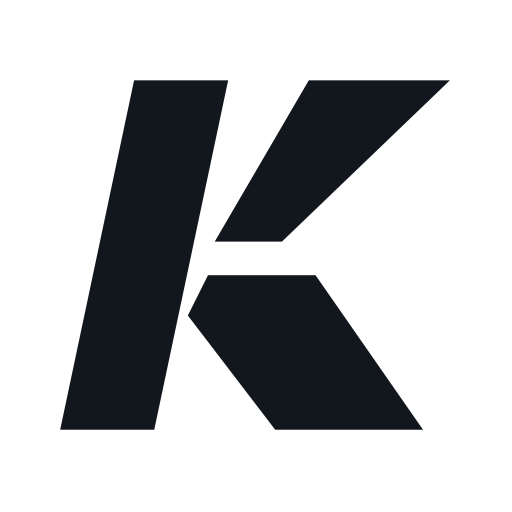
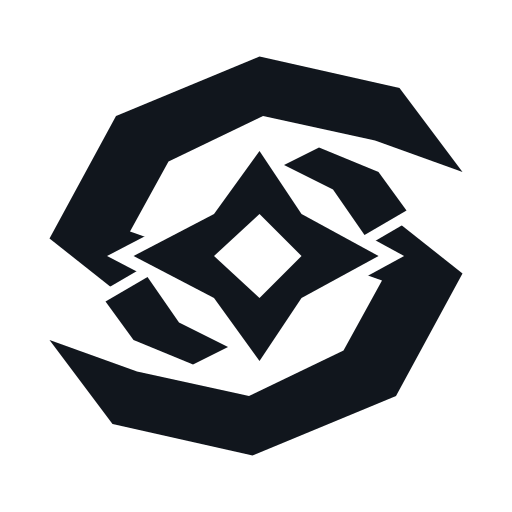
Localize cover edition labels and introduce Refracted Orbit brand emblem

Changed region(s): [[0.0938, 0.0938, 0.9062, 0.9062], [0.25, 0.1562, 0.4062, 0.2188]]

diff --git a/src/lib/product-copy.ts b/src/lib/product-copy.ts
@@ -12,6 +12,7 @@ export const coverEditions = [
 
 const en = {
   categories: { glass: "Glass mousepads", keycaps: "Keycaps", metal: "Metal customs" },
+  editionNames: ["Starplayer.", "Void FM.", "The Chemist.", "Golden Hour.", "Redline.", "Afterburn.", "Night Signal."],
   collections: [
     { name: "Core glass", caption: "THE ESSENTIALS", description: "A quiet surface. A clear point of view. Our essential glass mousepad direction, designed around the way you play." },
     { name: "Artist editions", caption: "A CANVAS FOR COLLABORATION", description: "A space for future artist and IP collaborations. This original studio study explores what could come next; collaborations are still to be announced." },
@@ -58,7 +59,7 @@ const en = {
     },
   },
   details: {
-    tabs: { specs: "Specs", story: "Story", faq: "FAQ" }, category: "Category", collection: "Collection", dimensions: "Design dimensions", thickness: "Thickness", surface: "Surface & base", status: "Status", tbc: "To be confirmed", future: "Future plan",
+    tabs: { specs: "Specs", story: "Story", faq: "FAQ" }, category: "Category", collection: "Collection", edition: "Edition", dimensions: "Design dimensions", thickness: "Thickness", surface: "Surface & base", status: "Status", tbc: "To be confirmed", future: "Future plan",
     direction: "Direction", preview: "Preview", geometric: "Geometric keycap form study", materialsFinish: "Materials & finish", compatibility: "Compatibility", palette: "Palette study", colors: "Crimson / Violet / Charcoal", materialsProcess: "Materials & process", profileKit: "Profile & kit",
     notes: "KAGURA / Product notes", close: "Close", closeLabel: "Close product details", designDimensions: "490 × 420 mm design", designConcept: "Design concept", specsTbc: "Specifications to be confirmed", conceptDeveloping: "Concept / In development", layoutTbc: "Layout and profile to be confirmed", information: "information",
     metalLead: "An early look at what comes next.", lead: "The details are in development.", specNote: "Final specifications, pricing, and release timing will be shared as development progresses.", signoff: "KAGURA / Objects for your everyday.",
@@ -87,6 +88,7 @@ const en = {
 
 const zh: typeof en = {
   categories: { glass: "玻璃鼠标垫", keycaps: "键帽", metal: "金属客制化" },
+  editionNames: ["明星玩家", "虚空电台", "化学家", "鎏金时刻", "红线", "余焰", "夜间信号"],
   collections: [
     { name: "Core 基础系列", caption: "回归纯粹", description: "让桌面安静下来，让注意力回到游戏。Core 从简洁的形态出发，探索玻璃鼠标垫最纯粹的样子。" },
     { name: "Artist 画师系列", caption: "为创作留一块空间", description: "为未来的画师与 IP 合作预留的系列。眼前这幅原创抽象作品，是我们对色彩与构图的一次尝试；具体合作尚未公布。" },
@@ -95,9 +97,9 @@ const zh: typeof en = {
   experience: {
     explore: "探索", allCollections: "全部系列", glassCollections: "玻璃鼠标垫系列", coverSeries: "01 / 封面系列", futureObjects: "01 / 未来企划",
     viewer: "玻璃鼠标垫三维桌面。点击旁边的鼠标垫，或使用键盘左右方向键切换系列。", conceptVisualization: "概念效果图",
-    keyTitle: "Starplayer / 键帽", keyKicker: "键帽系列", metalKicker: "探索金属的另一种表达", keyConcept: "键帽概念", futureCollection: "未来企划", developing: "开发中",
+    keyTitle: "明星玩家 / 键帽", keyKicker: "键帽系列", metalKicker: "探索金属的另一种表达", keyConcept: "键帽概念", futureCollection: "未来企划", developing: "开发中",
     format: "设计尺寸", series: "系列", palette: "概念配色", colors: "绯红 / 紫罗兰", coverNumber: "封面 / 01", formStudy: "造型研究 — 001",
-    keyDescription: "以蕾娜为主角，让红与紫的专辑封面画面铺展在每颗键帽之间。与 Starplayer 玻璃垫呼应的键帽设计概念。",
+    keyDescription: "以蕾娜为主角，让红与紫的专辑封面画面铺展在每颗键帽之间。与「明星玩家」玻璃垫呼应的键帽设计概念。",
     metalDescription: "从雕塑感的形态与细节出发，探索未来的定制金属物件。首个系列仍在构思中。",
     chooseArt: "选择封面作品", more: "了解详情", release: "订阅发售动态", artistNote: "原创概念预览。画师合作信息将另行公布。", conceptNote: "设计概念预览，最终产品信息待公布。",
     viewingAngle: "查看角度", deskView: "桌面视角", topView: "俯视角度", designStudy: "KAGURA / 设计研究", previous: "上一个玻璃垫系列", next: "下一个玻璃垫系列", of: "/",
@@ -122,7 +124,7 @@ const zh: typeof en = {
       caption: "Covers / 封面视觉研究", question: "Cover 系列每一款有什么区别？", answer: "每款以一幅独立作品为核心，灵感来自音乐与专辑视觉。目前展示的是概念设计，尚未公布任何官方联名。",
     },
     keycaps: {
-      title: "键帽", index: "02 / 键帽", tagline: "蕾娜、红色光线，以及另一种唱片封面。", asideTitle: "让每一次触碰，都有自己的表达。", description: "将角色画面重新编排在独立键帽上，与 Starplayer 玻璃垫形成视觉呼应。",
+      title: "键帽", index: "02 / 键帽", tagline: "蕾娜、红色光线，以及另一种唱片封面。", asideTitle: "让每一次触碰，都有自己的表达。", description: "将角色画面重新编排在独立键帽上，与「明星玩家」玻璃垫形成视觉呼应。",
       storyTitle: "一幅画面，延伸到每一颗键。", story: "Cover 系列将唱片封面的氛围带到键盘上。蕾娜画面贯穿独立键帽的顶面，搭配炭黑色功能键。这是独立角色二创概念，不代表官方联名。材质、印刷工艺、键帽高度与适配范围尚待确认。",
       caption: "键帽 / 图案印刷概念", question: "这套键帽适配哪些键盘？", answer: "适配配列、键帽高度与套装内容尚未公布。当前图片用于展示设计方向，并非最终套装。",
     },
@@ -133,7 +135,7 @@ const zh: typeof en = {
     },
   },
   details: {
-    tabs: { specs: "规格", story: "设计理念", faq: "常见问题" }, category: "品类", collection: "系列", dimensions: "设计尺寸", thickness: "厚度", surface: "表面与底部结构", status: "进度", tbc: "待确认", future: "未来企划",
+    tabs: { specs: "规格", story: "设计理念", faq: "常见问题" }, category: "品类", collection: "系列", edition: "款式", dimensions: "设计尺寸", thickness: "厚度", surface: "表面与底部结构", status: "进度", tbc: "待确认", future: "未来企划",
     direction: "产品方向", preview: "预览内容", geometric: "几何键帽造型研究", materialsFinish: "材质与表面处理", compatibility: "适配范围", palette: "概念配色", colors: "绯红 / 紫罗兰 / 炭黑", materialsProcess: "材质与工艺", profileKit: "键帽高度与套装",
     notes: "KAGURA / 产品手记", close: "关闭", closeLabel: "关闭产品详情", designDimensions: "设计尺寸 490 × 420 mm", designConcept: "设计概念", specsTbc: "最终规格待确认", conceptDeveloping: "概念设计 / 开发中", layoutTbc: "配列与键帽高度待确认", information: "详情",
     metalLead: "提前看看，我们正在构思什么。", lead: "产品细节，正在逐步打磨。", specNote: "最终规格、价格与发售时间，将随开发进度陆续公布。", signoff: "KAGURA / 为日常，添一点自己的表达。",
@@ -145,10 +147,10 @@ const zh: typeof en = {
     { caption: "蕾娜 / 角色二创概念 001", alt: "紫色光线中的蕾娜角色二创，背景为鲜红色专辑封面构图" },
     { caption: "恶灵 / 角色二创概念 002", alt: "以冷蓝色科幻专辑封面构图呈现的恶灵角色二创" },
     { caption: "侵蚀 / 电影感二创概念 003", alt: "工业仓库中的侵蚀，周围有橄榄绿色桶与暖色电影感逆光" },
-    { caption: "希尔 / 角色二创概念 004", alt: "Golden Hour：以希尔为灵感的铜橙、金色与海军蓝专辑封面概念" },
-    { caption: "红狼 / 角色二创概念 005", alt: "Redline：以红狼为灵感的红色专辑封面概念" },
-    { caption: "威龙 / 角色二创概念 006", alt: "Afterburn：以威龙为灵感的电影感专辑封面概念" },
-    { caption: "麦晓雯（骇爪）/ 角色二创概念 007", alt: "Night Signal：以麦晓雯（骇爪）为灵感的夜色专辑封面概念" },
+    { caption: "希尔 / 角色二创概念 004", alt: "鎏金时刻：以希尔为灵感的铜橙、金色与海军蓝专辑封面概念" },
+    { caption: "红狼 / 角色二创概念 005", alt: "红线：以红狼为灵感的红色专辑封面概念" },
+    { caption: "威龙 / 角色二创概念 006", alt: "余焰：以威龙为灵感的电影感专辑封面概念" },
+    { caption: "麦晓雯（骇爪）/ 角色二创概念 007", alt: "夜间信号：以麦晓雯（骇爪）为灵感的夜色专辑封面概念" },
   ],
   sound: {
     unavailable: "音乐尚未接入，查看说明", startingLabel: "音乐正在加载，点击关闭", onLabel: "音乐已开启，点击关闭", offLabel: "音乐已关闭，点击开启", on: "音乐 开", off: "音乐 关", settings: "音量与曲目信息", heading: "给桌面一点声音", close: "关闭音乐设置", trackPending: "属于这个系列的背景音乐", volume: "音量", percent: "%", error: "暂时无法播放，请重试。", retry: "重新播放", starting: "正在加载音乐…", playing: "音乐播放中，关闭面板后也会继续播放。", stopped: "音乐已关闭，想听的时候再打开。", noSource: "背景音乐正在挑选中，当前尚未接入音源。",
@@ -162,6 +164,7 @@ const zh: typeof en = {
 
 const ja: typeof en = {
   categories: { glass: "ガラスマウスパッド", keycaps: "キーキャップ", metal: "メタルカスタム" },
+  editionNames: ["スタープレイヤー", "虚空ラジオ", "ケミスト", "ゴールデンアワー", "レッドライン", "残り火", "夜のシグナル"],
   collections: [
     { name: "Core シリーズ", caption: "シンプルを、突き詰める", description: "デスクには余白を、プレイには集中を。Core は、ガラスマウスパッドのシンプルなかたちを探るシリーズです。" },
     { name: "Artist シリーズ", caption: "表現が広がる、一枚のキャンバス", description: "これからのアーティストや IP とのコラボレーションに向けたシリーズ。現在のビジュアルは、色と構図の可能性を探るオリジナルのコンセプトです。具体的なコラボレーションは未発表です。" },
@@ -170,9 +173,9 @@ const ja: typeof en = {
   experience: {
     explore: "コレクションを見る：", allCollections: "すべてのコレクション", glassCollections: "ガラスマウスパッドのシリーズ", coverSeries: "01 / COVER シリーズ", futureObjects: "01 / これからのプロダクト",
     viewer: "ガラスマウスパッドの 3D プレビュー。隣のパッドをクリックするか、左右の矢印キーでシリーズを切り替えられます。", conceptVisualization: "のコンセプトビジュアル",
-    keyTitle: "Starplayer / キーキャップ", keyKicker: "キーキャップコレクション", metalKicker: "金属で探る、新しい表現", keyConcept: "キーキャップのコンセプト", futureCollection: "今後の企画", developing: "開発中",
+    keyTitle: "スタープレイヤー / キーキャップ", keyKicker: "キーキャップコレクション", metalKicker: "金属で探る、新しい表現", keyConcept: "キーキャップのコンセプト", futureCollection: "今後の企画", developing: "開発中",
     format: "デザイン寸法", series: "シリーズ", palette: "カラースタディ", colors: "クリムゾン / バイオレット", coverNumber: "Cover / 01", formStudy: "フォルムスタディ — 001",
-    keyDescription: "レイナを、レコードジャケットのように。赤と紫のアートワークが、一つひとつのキーに広がります。Starplayer のガラスエディションと響き合うキーキャップのコンセプトです。",
+    keyDescription: "レイナを、レコードジャケットのように。赤と紫のアートワークが、一つひとつのキーに広がります。「スタープレイヤー」のガラスエディションと響き合うキーキャップのコンセプトです。",
     metalDescription: "彫刻のようなかたちと、細部の仕上げから考えるメタルプロダクト。最初のコレクションは、まだ構想の段階です。",
     chooseArt: "カバーアートを選ぶ", more: "詳しく見る", release: "発売情報を受け取る", artistNote: "オリジナルのコンセプトです。アーティストとのコラボレーションは今後発表予定。", conceptNote: "デザインのプレビューです。製品の最終仕様は後日お知らせします。",
     viewingAngle: "表示アングル", deskView: "デスクビュー", topView: "真上から見る", designStudy: "KAGURA / デザインスタディ", previous: "前のガラスシリーズへ", next: "次のガラスシリーズへ", of: "/",
@@ -197,7 +200,7 @@ const ja: typeof en = {
       caption: "Covers / アートワークスタディ", question: "Cover の各エディションは何が違いますか？", answer: "それぞれ一つのアートワークを軸に、異なる個性を持たせています。音楽やアルバムのビジュアルから着想を得たコンセプトで、公式コラボレーションの発表ではありません。",
     },
     keycaps: {
-      title: "キーキャップ", index: "02 / キーキャップ", tagline: "レイナと赤い光。もう一つのレコードジャケット。", asideTitle: "指先から、自分らしく。", description: "キャラクターのアートワークを、キーの一つひとつに再構成。Starplayer のガラスエディションとつながるビジュアルです。",
+      title: "キーキャップ", index: "02 / キーキャップ", tagline: "レイナと赤い光。もう一つのレコードジャケット。", asideTitle: "指先から、自分らしく。", description: "キャラクターのアートワークを、キーの一つひとつに再構成。「スタープレイヤー」のガラスエディションとつながるビジュアルです。",
       storyTitle: "一枚のアートを、すべてのキーへ。", story: "Cover シリーズのレコードジャケットのような空気感を、キーボードにも。レイナのアートワークを各キーのトップに配置し、チャコールの修飾キーで囲んでいます。自主制作の二次創作コンセプトで、公式コラボレーションではありません。素材、印刷方式、プロファイル、対応レイアウトは未定です。",
       caption: "キーキャップ / 印刷デザインのコンセプト", question: "どのキーボードに対応しますか？", answer: "対応レイアウト、キーキャップのプロファイル、セット内容は未発表です。画像はデザインの方向性を示すもので、最終的なセット構成ではありません。",
     },
@@ -208,7 +211,7 @@ const ja: typeof en = {
     },
   },
   details: {
-    tabs: { specs: "仕様", story: "デザインについて", faq: "よくある質問" }, category: "カテゴリー", collection: "シリーズ", dimensions: "デザイン寸法", thickness: "厚さ", surface: "表面・ベース構造", status: "開発状況", tbc: "未定", future: "今後の企画",
+    tabs: { specs: "仕様", story: "デザインについて", faq: "よくある質問" }, category: "カテゴリー", collection: "シリーズ", edition: "エディション", dimensions: "デザイン寸法", thickness: "厚さ", surface: "表面・ベース構造", status: "開発状況", tbc: "未定", future: "今後の企画",
     direction: "製品の方向性", preview: "プレビュー内容", geometric: "幾何学的なキーキャップの造形", materialsFinish: "素材・表面仕上げ", compatibility: "互換性", palette: "カラースタディ", colors: "クリムゾン / バイオレット / チャコール", materialsProcess: "素材・製法", profileKit: "プロファイル・セット内容",
     notes: "KAGURA / プロダクトノート", close: "閉じる", closeLabel: "製品の詳細を閉じる", designDimensions: "デザイン寸法 490 × 420 mm", designConcept: "デザインコンセプト", specsTbc: "最終仕様は未定", conceptDeveloping: "コンセプト / 開発中", layoutTbc: "レイアウト・プロファイルは未定", information: "の詳細",
     metalLead: "これからのプロダクトを、少しだけ。", lead: "細かな仕様は、開発を進めています。", specNote: "最終仕様、価格、発売時期は、開発の進捗に合わせてお知らせします。", signoff: "KAGURA / 日々の道具に、自分らしさを。",
@@ -220,10 +223,10 @@ const ja: typeof en = {
     { caption: "レイナ / 二次創作コンセプト 001", alt: "鮮やかな赤いレコードジャケット風の背景に、紫の光を浴びたレイナを描いたファンアート" },
     { caption: "レイス / 二次創作コンセプト 002", alt: "冷たい青を基調に、SF のレコードジャケット風に構成したレイスのファンアート" },
     { caption: "コースティック / シネマティックコンセプト 003", alt: "オリーブグリーンのドラム缶が並ぶ倉庫で、暖かな逆光に照らされたコースティック" },
-    { caption: "シア / 二次創作コンセプト 004", alt: "Golden Hour：銅色とゴールドを背景に、つばの広い帽子に手を添えるシアのポートレート" },
-    { caption: "D-WOLF / 二次創作コンセプト 005", alt: "Redline：D-Wolf に着想を得た、赤を基調とするレコードジャケット風のコンセプト" },
-    { caption: "VYRON / 二次創作コンセプト 006", alt: "Afterburn：Vyron に着想を得た、映画のようなレコードジャケット風のコンセプト" },
-    { caption: "HACKCLAW / 二次創作コンセプト 007", alt: "Night Signal：Hackclaw に着想を得た、夜の空気を描くレコードジャケット風のコンセプト" },
+    { caption: "シア / 二次創作コンセプト 004", alt: "ゴールデンアワー：銅色とゴールドを背景に、つばの広い帽子に手を添えるシアのポートレート" },
+    { caption: "D-WOLF / 二次創作コンセプト 005", alt: "レッドライン：D-Wolf に着想を得た、赤を基調とするレコードジャケット風のコンセプト" },
+    { caption: "VYRON / 二次創作コンセプト 006", alt: "残り火：Vyron に着想を得た、映画のようなレコードジャケット風のコンセプト" },
+    { caption: "HACKCLAW / 二次創作コンセプト 007", alt: "夜のシグナル：Hackclaw に着想を得た、夜の空気を描くレコードジャケット風のコンセプト" },
   ],
   sound: {
     unavailable: "音源はまだ設定されていません。詳細を見る", startingLabel: "音楽を読み込み中。音楽をオフにする", onLabel: "音楽はオンです。オフにする", offLabel: "音楽はオフです。オンにする", on: "サウンド ON", off: "サウンド OFF", settings: "音量と楽曲情報", heading: "音楽と一緒に", close: "音楽設定を閉じる", trackPending: "コレクションに合う一曲を", volume: "音量", percent: "パーセント", error: "再生できませんでした。もう一度お試しください。", retry: "もう一度再生", starting: "音楽を読み込み中…", playing: "再生中です。パネルを閉じても音楽は続きます。", stopped: "音楽はオフです。お好きなときに再生してください。", noSource: "BGM を選曲中です。現在、音源はまだ設定されていません。",

diff --git a/src/components/ShrineExperience.tsx b/src/components/ShrineExperience.tsx
@@ -82,7 +82,7 @@ export function ShrineExperience({ category = "glass" }: { category?: ProductCat
         <div className={styles.tags}><span>{glass ? copy.categories.glass : keycaps ? text.keyConcept : text.futureCollection}</span><span>{text.developing}</span></div>
         {glass ? <dl className={styles.specs}><div><dt>{text.format}</dt><dd>490 × 420 <small>mm</small></dd></div><div><dt>{text.series}</dt><dd>0{active + 1} / 03</dd></div></dl> : keycaps ? <dl className={styles.specs}><div><dt>{text.palette}</dt><dd>{text.colors}</dd></div><div><dt>{text.series}</dt><dd>{text.coverNumber}</dd></div></dl> : null}
         <p className={styles.description}>{glass ? current.description : keycaps ? text.keyDescription : text.metalDescription}</p>
-        {glass && active === 2 ? <div className={styles.editionPicker} role="group" aria-label={text.chooseArt}>{coverEditions.map((item, index) => <button key={item.id} aria-label={item.name} aria-pressed={edition === index} type="button" onClick={() => selectEdition(index)}><span style={{ background: item.color }} /><span>{item.name}</span></button>)}</div> : null}
+        {glass && active === 2 ? <div className={styles.editionPicker} role="group" aria-label={text.chooseArt}>{coverEditions.map((item, index) => <button key={item.id} aria-label={copy.editionNames[index]} aria-pressed={edition === index} type="button" onClick={() => selectEdition(index)}><span style={{ background: item.color }} /><span>{copy.editionNames[index]}</span></button>)}</div> : null}
         <button className={styles.more} type="button" aria-haspopup="dialog" onClick={() => setOpen(true)}>{text.more} <span aria-hidden="true">+</span></button>
         <Link href="/#newsletter" className={styles.primaryButton}>{text.release} <span aria-hidden="true">↗</span></Link>
         <p className={styles.conceptNote}>{glass && active === 1 ? text.artistNote : text.conceptNote}</p>
@@ -94,7 +94,7 @@ export function ShrineExperience({ category = "glass" }: { category?: ProductCat
         <span className={styles.help}>{glass ? text.help : text.unavailable}</span>
       </div>
     </section>
-    {glass && active === 2 ? <section className={styles.coverCollection} aria-labelledby="covers-title"><div><p>{text.withinGlass}</p><h2 id="covers-title">{text.coverTitle}</h2><span>{text.coverSubtitle}</span></div><div className={styles.records}>{coverEditions.map((item, index) => <button key={item.id} type="button" aria-pressed={edition === index} onClick={() => { selectEdition(index); window.scrollTo({ top: 0, behavior: window.matchMedia("(prefers-reduced-motion: reduce)").matches ? "instant" : "smooth" }); }}><div className={styles.recordArt}><AlbumArtwork edition={index} /></div><span><span className={styles.recordLabel}>{item.name}<small>{copy.artwork[index]?.caption.split(/\s*\/\s*/)[0]}</small></span><i aria-hidden="true">↗</i></span></button>)}</div><p className={styles.coverNote}>{text.coverNote}</p></section> : null}
+    {glass && active === 2 ? <section className={styles.coverCollection} aria-labelledby="covers-title"><div><p>{text.withinGlass}</p><h2 id="covers-title">{text.coverTitle}</h2><span>{text.coverSubtitle}</span></div><div className={styles.records}>{coverEditions.map((item, index) => <button key={item.id} type="button" aria-label={`${copy.editionNames[index]} — ${copy.artwork[index]?.caption.split(/\s*\/\s*/)[0]}`} aria-pressed={edition === index} onClick={() => { selectEdition(index); window.scrollTo({ top: 0, behavior: window.matchMedia("(prefers-reduced-motion: reduce)").matches ? "instant" : "smooth" }); }}><div className={styles.recordArt}><AlbumArtwork edition={index} /></div><span><span className={styles.recordLabel}>{copy.editionNames[index]}<small>{copy.artwork[index]?.caption.split(/\s*\/\s*/)[0]}</small></span><i aria-hidden="true">↗</i></span></button>)}</div><p className={styles.coverNote}>{text.coverNote}</p></section> : null}
     <ShrineDetails open={open} onClose={() => setOpen(false)} kind={category} collection={current.id} edition={edition} />
   </div>;
 }

diff --git a/src/components/ShrineDetails.tsx b/src/components/ShrineDetails.tsx
@@ -31,10 +31,12 @@ export function ShrineDetails({ open, onClose, kind, collection = "core", editio
   const isCovers = isGlass && collection === "covers";
   const isMetal = kind === "metal";
   const concept = copy.concepts[isGlass ? collection : kind];
-  const title = concept.title;
+  const editionName = copy.editionNames[edition] ?? copy.editionNames[0];
+  const title = isCovers ? editionName : concept.title;
   const specifications = isGlass ? [
     [text.category, copy.categories.glass],
-    [text.collection, title],
+    [text.collection, concept.title],
+    ...(isCovers ? [[text.edition, editionName]] : []),
     [text.dimensions, "490 × 420 mm"],
     [text.thickness, text.tbc],
     [text.surface, text.tbc],
@@ -142,7 +144,7 @@ export function ShrineDetails({ open, onClose, kind, collection = "core", editio
                 <div className={`${styles.glassPad} ${collection === "core" ? styles.corePad : collection === "artist" ? styles.artistPad : ""}`} aria-hidden="true">
                   {isCovers ? <AlbumArtwork edition={edition} /> : collection === "artist" ? <><span className={styles.artistOrbit} /><span className={styles.artistPlane} /><span className={styles.padMark}>KAGURA / ARTIST</span></> : <><span className={styles.coreSheen} /><span className={styles.padMark}>KAGURA / CORE</span></>}
                 </div>
-                <figcaption>{concept.caption}<span>{isCovers ? text.designDimensions : text.designConcept}</span></figcaption>
+                <figcaption>{isCovers ? editionName : concept.caption}<span>{isCovers ? text.designDimensions : text.designConcept}</span></figcaption>
               </figure>
             ) : isMetal ? (
               <figure className={`${styles.visual} ${styles.metalVisual}`}>

diff --git a/src/components/KaguraSymbol.tsx b/src/components/KaguraSymbol.tsx
@@ -1,3 +1,17 @@
+import { useId } from "react";
+
+/** Original non-letter emblem: two cut orbits, an open core and opposing facets. */
 export function KaguraSymbol({ className = "" }: { className?: string }) {
-  return <svg className={className} viewBox="0 0 64 64" aria-hidden="true" focusable="false" fill="currentColor"><path d="M14 6h14L17 58H3Z" /><path d="M40 6h21L36 30H26Z" /><path d="M25 35h16l16 23H35L22 41Z" /></svg>;
+  const cutId = useId();
+  return <svg className={className} viewBox="0 0 128 128" aria-hidden="true" focusable="false" fill="currentColor">
+    <defs><mask id={cutId} maskUnits="userSpaceOnUse" x="0" y="0" width="128" height="128">
+      <rect width="128" height="128" fill="white" />
+      <path d="m65 34 12 18 22 12-22 12-12 18-13-18-23-12 23-12Z" fill="black" stroke="black" strokeWidth="7" />
+      <path d="m82 33 17 7 8 11-12 7-9-13-14-7Z" fill="black" stroke="black" strokeWidth="6" />
+      <path d="m46 95-17-7-8-11 12-7 9 13 14 7Z" fill="black" stroke="black" strokeWidth="6" />
+    </mask></defs>
+    <g mask={`url(#${cutId})`}><path d="M5 59 24 24 65 7 105 16 123 40 98 31 66 24 39 37 28 57 45 63 29 78Z" /><path d="m123 69-19 35-41 17-40-9L5 88l25 9 32 7 27-13 11-20-17-6 16-15Z" /></g>
+    <path fillRule="evenodd" d="m65 34 12 18 22 12-22 12-12 18-13-18-23-12 23-12Zm0 18L52 64l13 12 12-12Z" />
+    <path d="m82 33 17 7 8 11-12 7-9-13-14-7Z" /><path d="m46 95-17-7-8-11 12-7 9 13 14 7Z" />
+  </svg>;
 }

diff --git a/src/components/BrandStory.module.css b/src/components/BrandStory.module.css
@@ -5,6 +5,7 @@
 @media(max-width:380px){.heroCopy h2{font-size:21px}.heroCollage{height:375px}.chapterCopy h2{font-size:28px}.chapterVisual{min-height:250px}.creatorsHeading h2{font-size:23px}.creatorPoster{min-height:420px}.introBottom>p{max-width:135px}.collectorLabel>strong{font-size:21px}}
 @media(prefers-reduced-motion:reduce){.heroWraith{transform:rotate(9deg)}.heroReyna{transform:rotate(-10deg)}.heroKeys{transform:rotate(5deg)}.heroCollage figure{will-change:auto}.story{height:auto}.pinned{height:auto;position:relative;top:0;min-height:0}.chapters{display:grid}.chapter{position:relative;opacity:1;visibility:visible;transform:none;min-height:650px;padding-top:40px;padding-bottom:35px}.chapterVisual{min-height:480px}.progress{display:none}.root *{transition:none!important;animation:none!important;scroll-behavior:auto!important}}
 
-.collageSeal > svg{width:42px;height:42px;flex:none}
+.collageSeal > svg{width:50px;height:50px;flex:none}
+@media(max-width:760px){.collageSeal > svg{width:40px;height:40px}}
 
 @media(max-height:740px){.story{height:auto}.pinned{height:auto;position:relative;top:0;min-height:0}.chapters{display:grid}.chapter{position:relative;opacity:1;visibility:visible;transform:none;min-height:650px;padding-top:40px;padding-bottom:35px;scroll-margin-top:85px}.chapterVisual{min-height:420px}.progress{display:none}}

diff --git a/src/app/layout.tsx b/src/app/layout.tsx
@@ -27,12 +27,12 @@ export async function generateMetadata(): Promise<Metadata> {
   },
   icons: {
     icon: [
-      { url: "/favicon.ico?v=4", sizes: "any" },
-      { url: "/favicon.svg?v=4", type: "image/svg+xml" },
-      { url: "/images/kagura-favicon.png?v=4", type: "image/png", sizes: "512x512" },
+      { url: "/favicon.ico?v=5", sizes: "any" },
+      { url: "/favicon.svg?v=5", type: "image/svg+xml" },
+      { url: "/images/kagura-favicon.png?v=5", type: "image/png", sizes: "512x512" },
     ],
-    shortcut: "/favicon.ico?v=4",
-    apple: [{ url: "/apple-touch-icon.png?v=4", sizes: "180x180", type: "image/png" }],
+    shortcut: "/favicon.ico?v=5",
+    apple: [{ url: "/apple-touch-icon.png?v=5", sizes: "180x180", type: "image/png" }],
   },
   openGraph: {
     type: "website",

diff --git a/src/components/KaguraIdentity.module.css b/src/components/KaguraIdentity.module.css
@@ -1,1 +1,1 @@
-.identity{display:inline-flex;align-items:center;gap:14px;color:inherit}.symbol{display:block;width:39px;height:39px;flex:none}.word{display:block}.word svg{width:123px;height:auto}@media(max-width:760px){.compact .word{display:none}.compact .symbol{width:42px;height:42px}.identity{gap:12px}}
+.identity{display:inline-flex;align-items:center;gap:14px;color:inherit}.symbol{display:block;width:46px;height:46px;flex:none}.word{display:block}.word svg{width:123px;height:auto}@media(max-width:760px){.compact .word{display:none}.compact .symbol{width:46px;height:46px}.identity{gap:12px}}

diff --git a/src/components/ShrineExperience.module.css b/src/components/ShrineExperience.module.css
@@ -15,3 +15,6 @@
 
 .root:lang(zh) .productInfo h1,.root:lang(ja) .productInfo h1{font-size:clamp(25px,2.1vw,34px);text-wrap:balance}
 @media(max-width:760px){.root:lang(zh) .productInfo h1,.root:lang(ja) .productInfo h1{font-size:32px}}
+
+.editionPicker button{font-size:10px}
+@media(max-width:760px){.editionPicker button{font-size:12px;min-height:36px}}

diff --git a/docs/design-and-fonts.md b/docs/design-and-fonts.md
@@ -30,6 +30,10 @@ Chinese, English and Japanese have individually authored copy dictionaries. The 
 
 Legacy demo cloth-pad product and collection URLs redirect into current collection pages. Their unconfirmed prices and Shopify placeholder instructions are no longer part of the visitor journey. Shipping and returns pages reflect the current prelaunch status.
 
-## CUT K symbol
+## Refracted Orbit symbol
 
-`public/brand/kagura-symbol.svg` and `KaguraSymbol.tsx` contain an original, monochrome geometric K built from three cut planes. This is an original vector implementation, not a traced WALLHACK symbol. Desktop navigation combines the symbol with the existing custom KAGURA wordmark. Mobile navigation uses the symbol alone. Browser and touch icons use the same identity. No trademark clearance is implied.
+`public/brand/kagura-symbol.svg` and `KaguraSymbol.tsx` contain an original, non-letter emblem. Two angular orbit bands interlock around a hollow, four-point core. Opposing inset facets and deliberate negative-space cuts create a layered silhouette; no K or other letter is used as its structure. This replaces the first Cut K proposal following the owner's design feedback. The SVG uses an instance-specific mask ID so repeated symbols render independently.
+
+Desktop navigation combines the emblem with the existing custom KAGURA wordmark. Mobile navigation uses the emblem alone. The hero stamp, footer, browser and touch icons share the same identity. It is not traced from WALLHACK or another peripheral brand. No trademark clearance is implied.
+
+Cover edition display names are separately authored in Chinese, English and Japanese and are shared by selectors, card labels, accessibility labels and detail panels. English lettering inside the artwork remains part of the artwork; the stable `art` identifiers and chosen cover survive a locale change.
